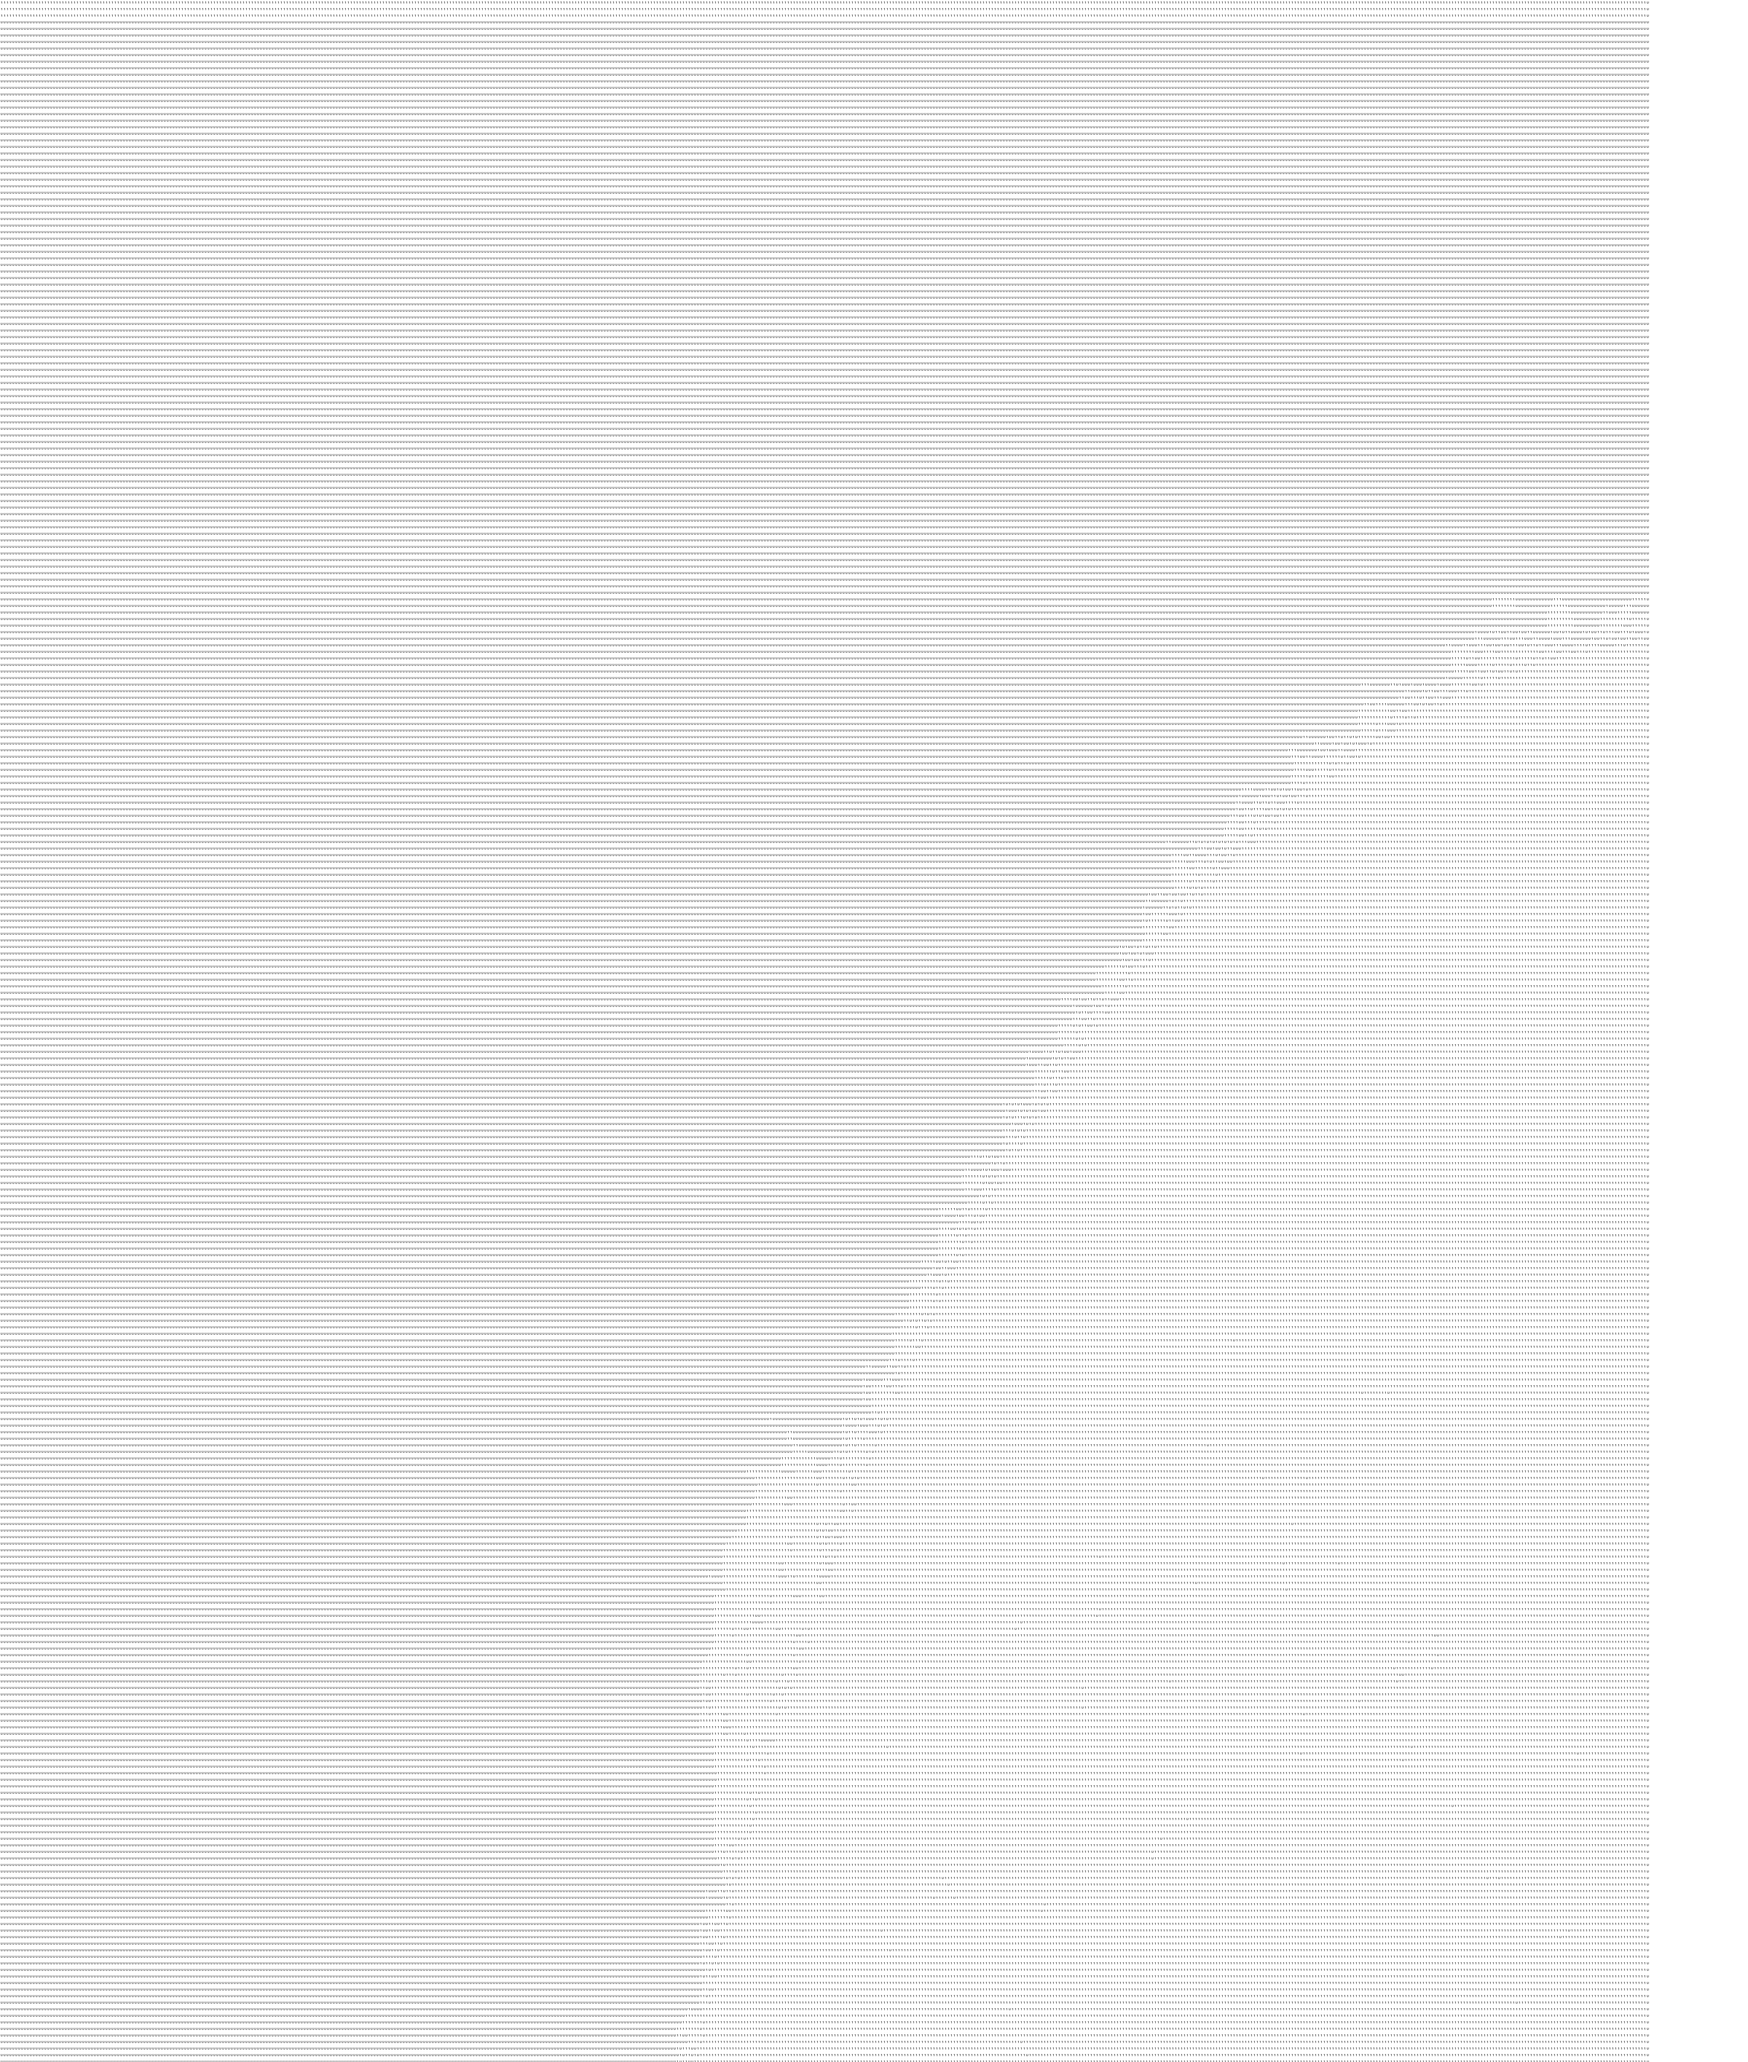
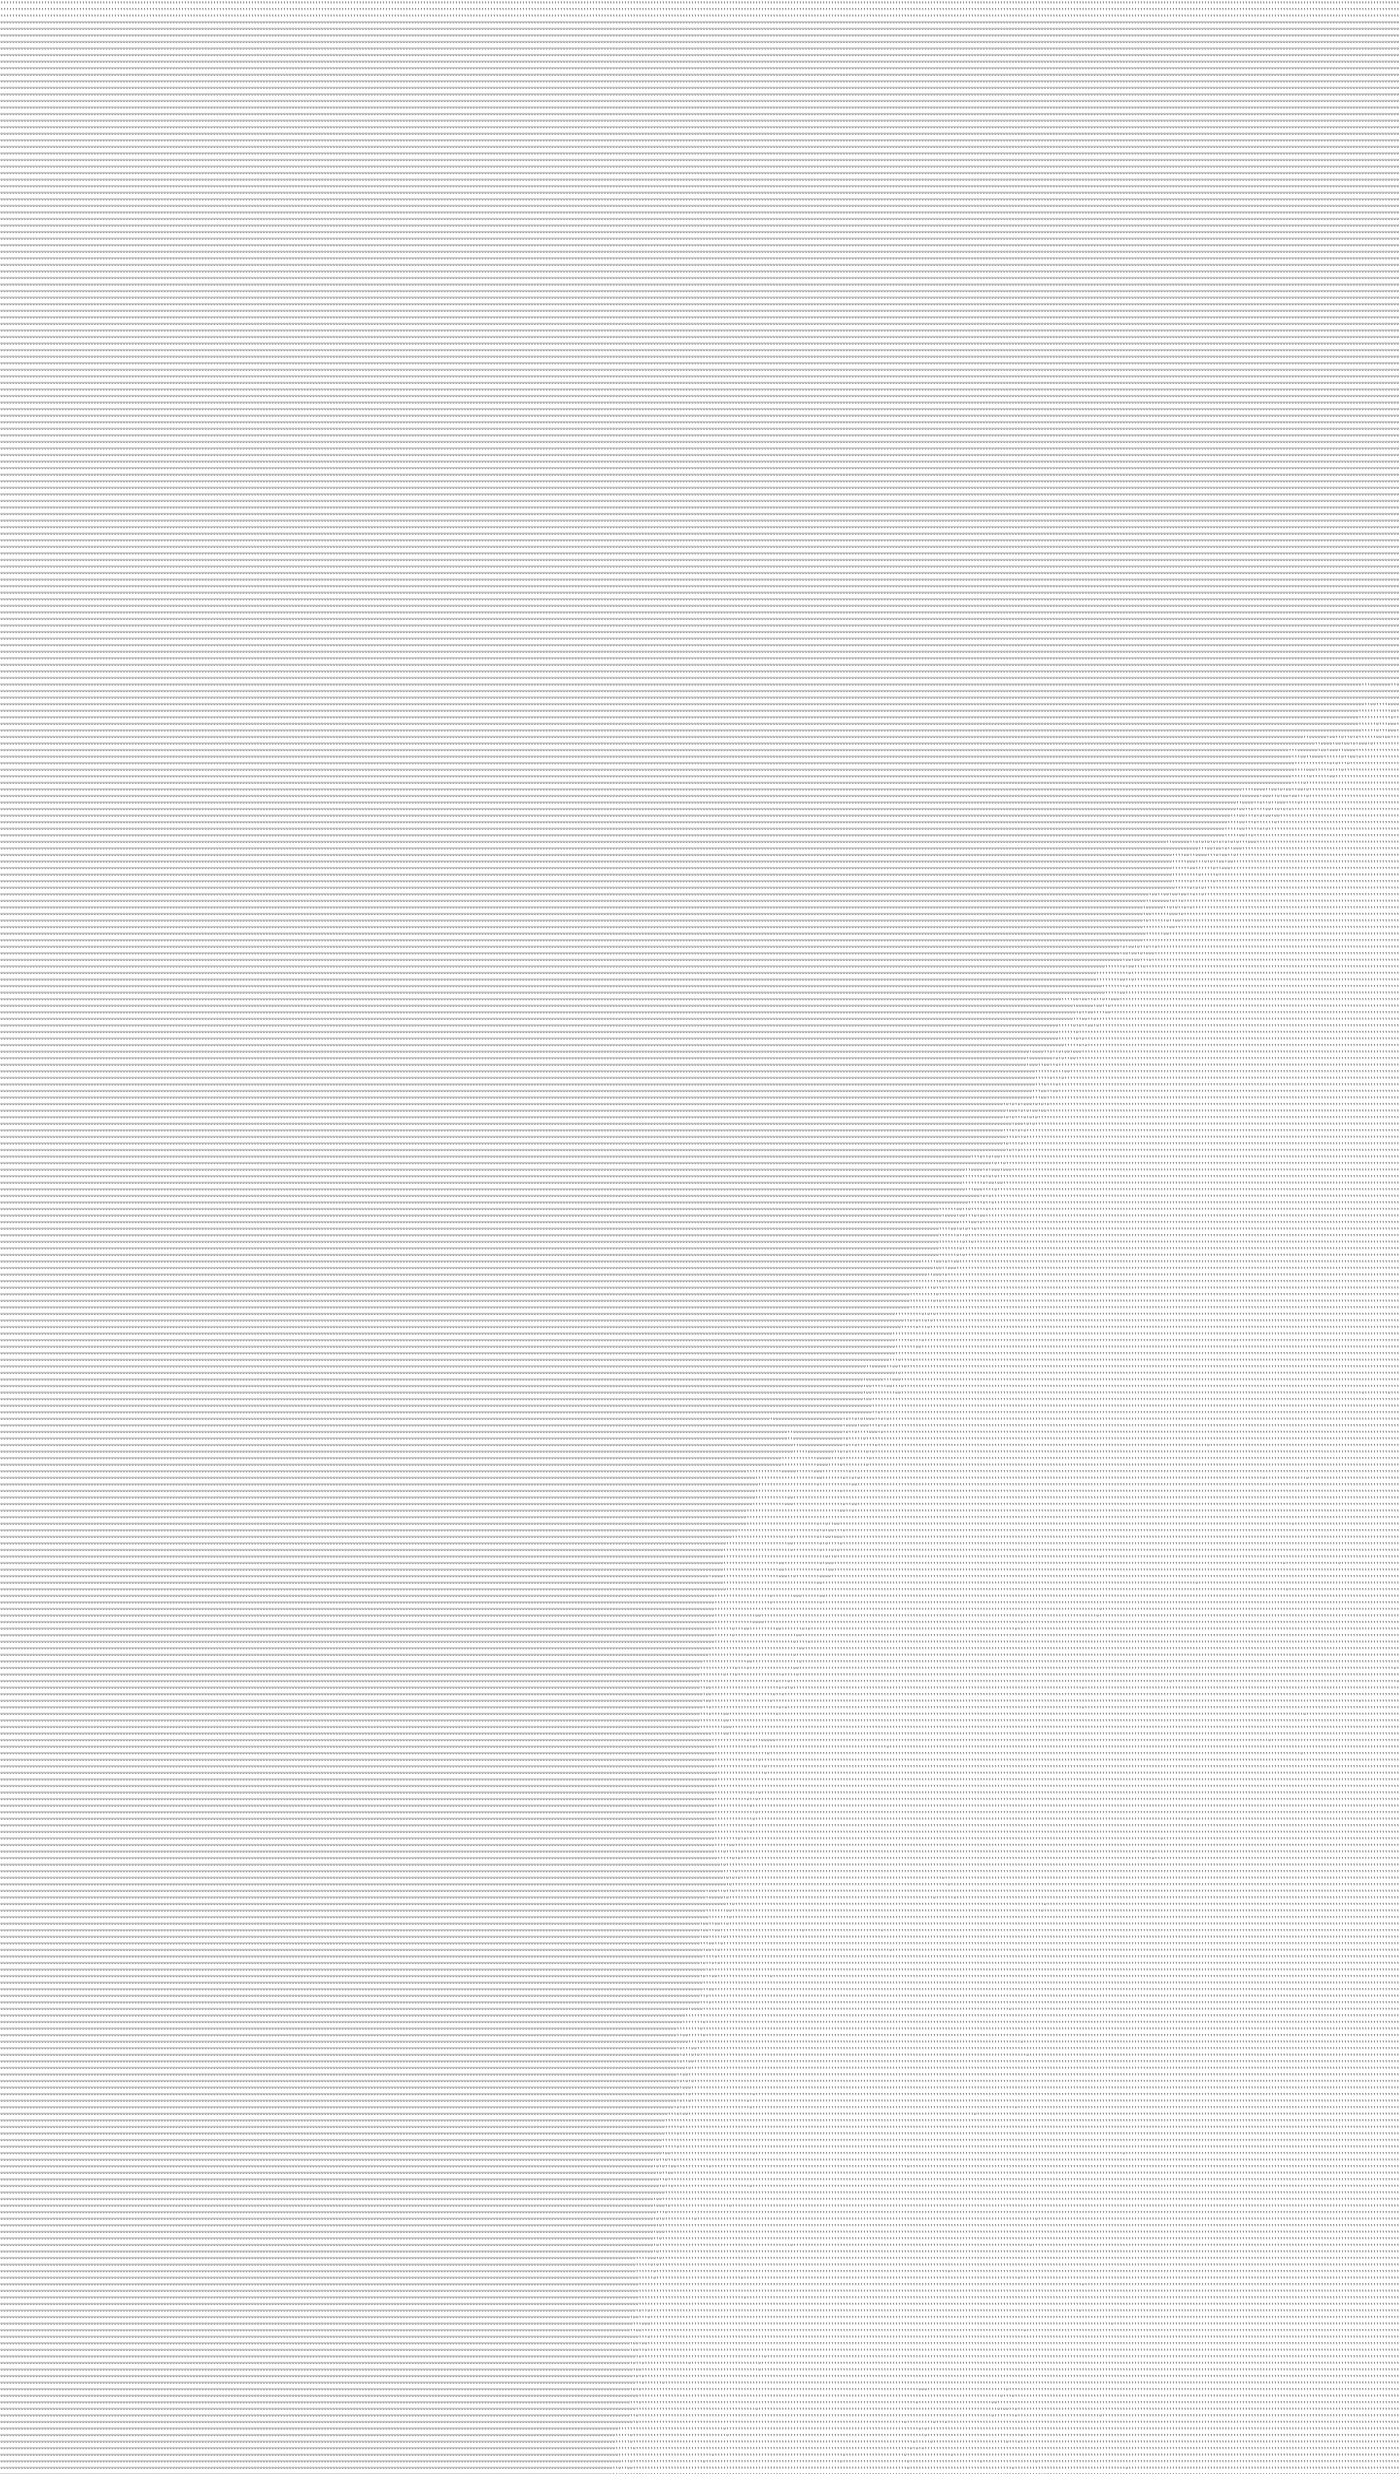
commit files

diff --git a/img_color.py b/img_color.py
@@ -27,7 +27,7 @@ for i in range(len(list)):
     #print 
     
 #print text    
-img = Image.new('RGB', (w * 5, h * 5), color = (255, 255, 255))
+img = Image.new('RGB', (w * 4, h * 6), color = (255, 255, 255))
 d = ImageDraw.Draw(img)
 font = ImageFont.truetype("arial.ttf", 5)
 d.text((1,1), text, fill=(0, 0, 0), font = font)
